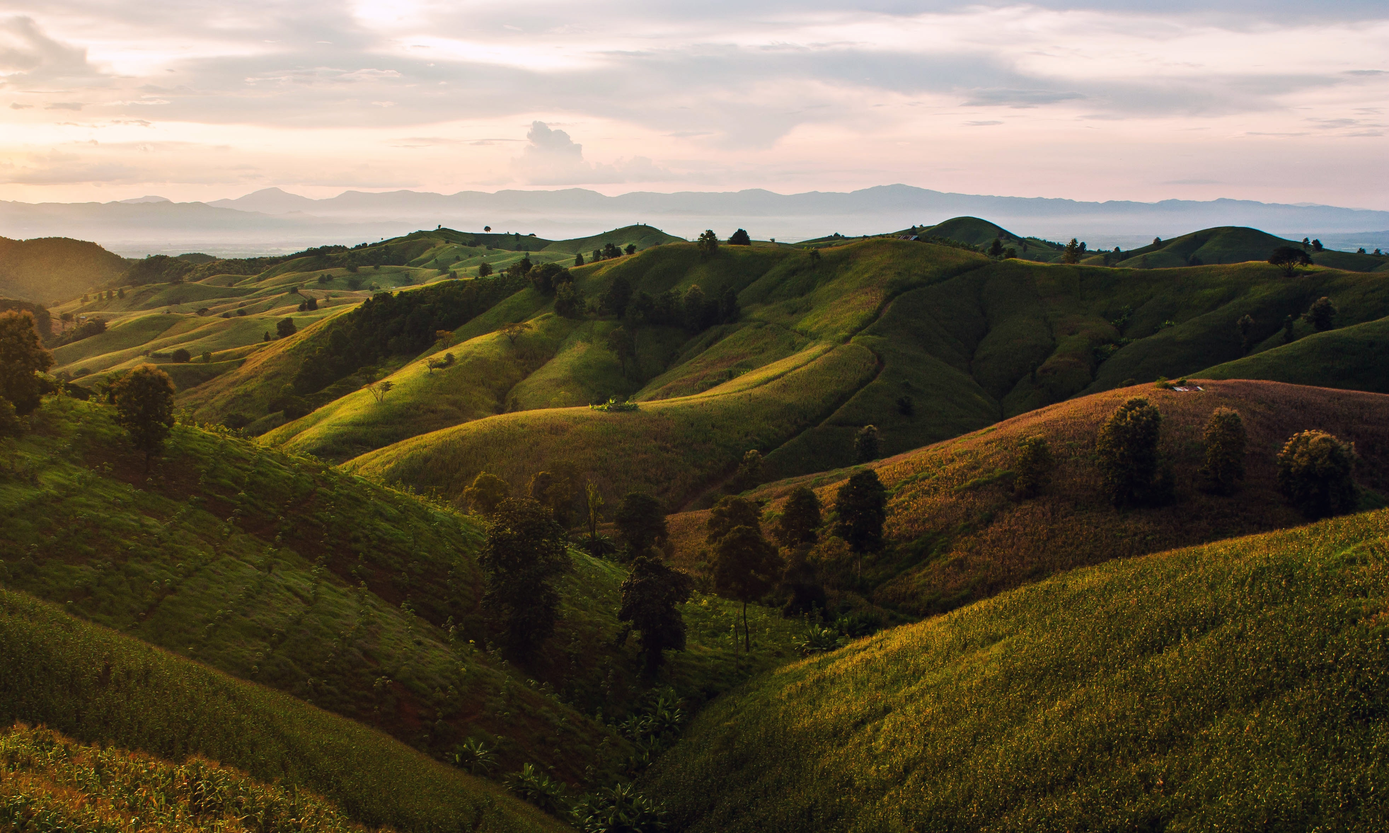
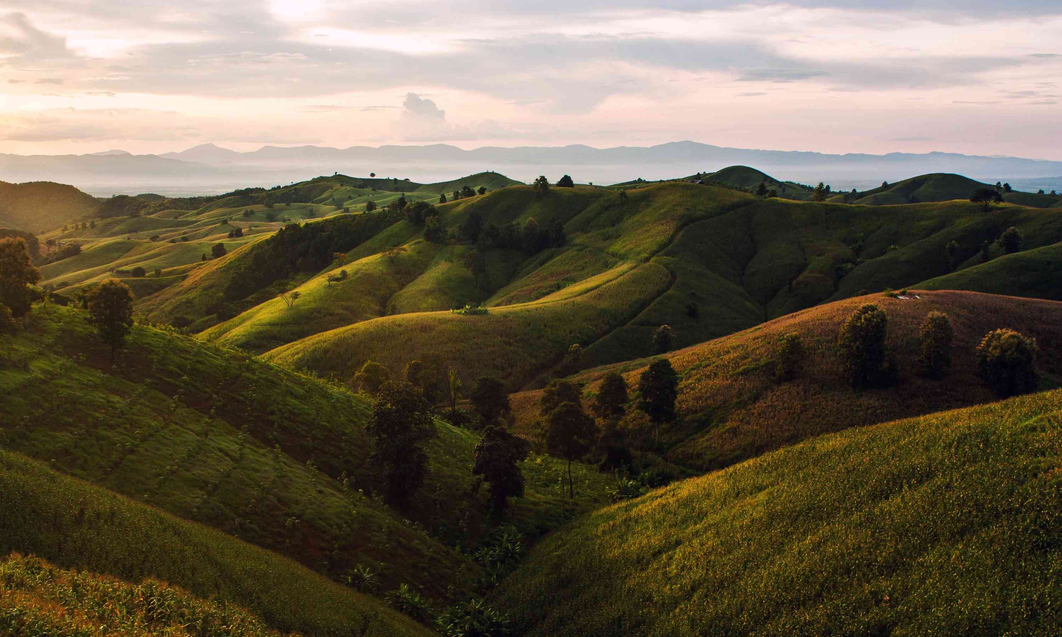
compressed images to reduce network latency

diff --git a/style.css b/style.css
@@ -2,16 +2,16 @@ body {
   background: yellow;
 }
 
-/*@media screen and (min-width: 900px) {
+@media screen and (min-width: 900px) {
   body {
     background: url('./large-background.jpg') no-repeat center center fixed;
     background-size: cover;
   }
 }
-*/
+
 @media screen and (max-width: 500px) {
   body {
-    background: url('./large-background.jpg') no-repeat center center fixed;
+    background: url('./small-background.jpg') no-repeat center center fixed;
     background-size: cover;
   }
 }

diff --git a/index.html b/index.html
@@ -17,7 +17,7 @@
   <h1>Helloooo</h1>
 
   <!-- Large Image -->
-  <img src="./puppy.jpg" width="300px" height="200px">
+  <img src="./puppy.jpg" width="300px" height="375px">
 
   <!-- javascript -->
   <script type="text/javascript" src="./script.js"></script>
